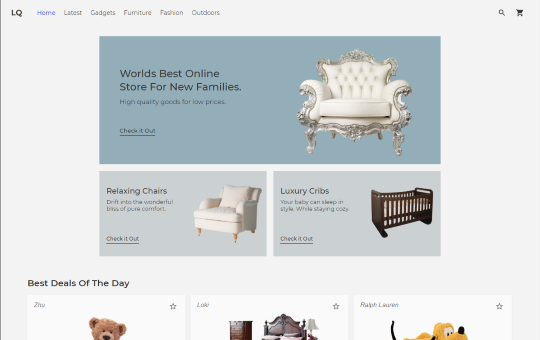
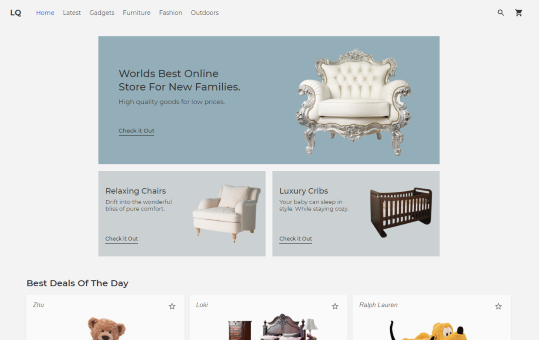
finished online store tweaks

diff --git a/public/styles/main.css b/public/styles/main.css
@@ -890,7 +890,7 @@ button:focus {
   .sites-item .item-overlay {
     display: none; }
   .sites-item .item-image {
-    box-shadow: 1px 3px 12px 0 rgba(0, 0, 0, 0.11); }
+    box-shadow: 0px 2px 8px 0 rgba(0, 0, 0, 0.18); }
   .sites-item img {
     display: block;
     width: 100%; }
@@ -1250,23 +1250,28 @@ button:focus {
     box-shadow: 0px 0px 20px 2px rgba(0, 0, 0, 0.41); }
 
 #content-wrapper-1 {
-  background-color: #ad4851; }
+  background-color: #837971; }
   #content-wrapper-1 img {
-    box-shadow: 0px 0px 15px -1px rgba(0, 0, 0, 0.38); }
+    box-shadow: 0px 2px 8px 0px rgba(0, 0, 0, 0.18); }
 
 #content-wrapper-2 {
-  background-color: #a0c1cb; }
+  background-color: #ad4851; }
   #content-wrapper-2 img {
-    box-shadow: 0px 0px 15px -1px rgba(0, 0, 0, 0.25); }
+    box-shadow: 0px 0px 15px -1px rgba(0, 0, 0, 0.38); }
 
 #content-wrapper-3 {
-  background-color: #14222b; }
+  background-color: #a0c1cb; }
   #content-wrapper-3 img {
-    box-shadow: 0px 0px 20px 2px rgba(0, 0, 0, 0.75); }
+    box-shadow: 0px 0px 15px -1px rgba(0, 0, 0, 0.25); }
 
 #content-wrapper-4 {
-  background-color: #933533; }
+  background-color: #14222b; }
   #content-wrapper-4 img {
+    box-shadow: 0px 0px 20px 2px rgba(0, 0, 0, 0.75); }
+
+#content-wrapper-5 {
+  background-color: #933533; }
+  #content-wrapper-5 img {
     box-shadow: 0px 0px 15px 2px rgba(0, 0, 0, 0.46); }
 
 /* Mobile */

diff --git a/src/components/other-pages/sites.jsx b/src/components/other-pages/sites.jsx
@@ -13,24 +13,30 @@ export default class SitesPage extends React.Component {
       },
       {
         id: 1,
+        title: 'Online Store',
+        link: '/sites/online-store',
+        image: '/images/sites/screens/online-store.png',
+      },
+      {
+        id: 2,
         title: 'Pinterest Redesign',
         link: '/sites/pinterest-redesign',
         image: '/images/sites/screens/pinterest-redesign.png',
       },
       {
-        id: 2,
+        id: 3,
         title: 'Luxotus',
         link: '/sites/luxotus-blog',
         image: '/images/sites/screens/luxotus.png',
       },
       {
-        id: 3,
+        id: 4,
         title: 'Tea Shop',
         link: '/sites/tea-shop',
         image: '/images/sites/screens/tea-shop.png',
       },
       {
-        id: 4,
+        id: 5,
         title: 'Worldwide Stories',
         link: '/sites/worldwide-stories',
         image: '/images/sites/screens/worldwide-stories.png',

diff --git a/sass/layouts/_minimal.scss b/sass/layouts/_minimal.scss
@@ -52,6 +52,14 @@
 }
 
 #content-wrapper-1 {
+  background-color: #837971;
+
+  img {
+    box-shadow: 0px 2px 8px 0px rgba(0, 0, 0, 0.18);
+  }
+}
+
+#content-wrapper-2 {
   background-color: #ad4851;
 
   img {
@@ -59,7 +67,7 @@
   }
 }
 
-#content-wrapper-2 {
+#content-wrapper-3 {
   background-color: #a0c1cb;
 
   img {
@@ -67,7 +75,7 @@
   }
 }
 
-#content-wrapper-3 {
+#content-wrapper-4 {
   background-color: #14222b;
 
   img {
@@ -75,7 +83,7 @@
   }
 }
 
-#content-wrapper-4 {
+#content-wrapper-5 {
   background-color: #933533;
 
   img {

diff --git a/src/components/home-page/sites.jsx b/src/components/home-page/sites.jsx
@@ -180,7 +180,7 @@ export default class Sites extends React.Component {
         types: [
           'shop',
         ],
-        imageSrc: '/images/sites/screens/example-sm.png',
+        imageSrc: '/images/sites/screens/online-store-sm.png',
       },
     ];
 

diff --git a/sass/components/home-page/_sites.scss b/sass/components/home-page/_sites.scss
@@ -74,7 +74,7 @@
   }
 
   .item-image {
-    box-shadow: 1px 3px 12px 0 rgba(0, 0, 0, 0.11);
+    box-shadow: 0px 2px 8px 0 rgba(0, 0, 0, 0.18);
   }
 
   img {
